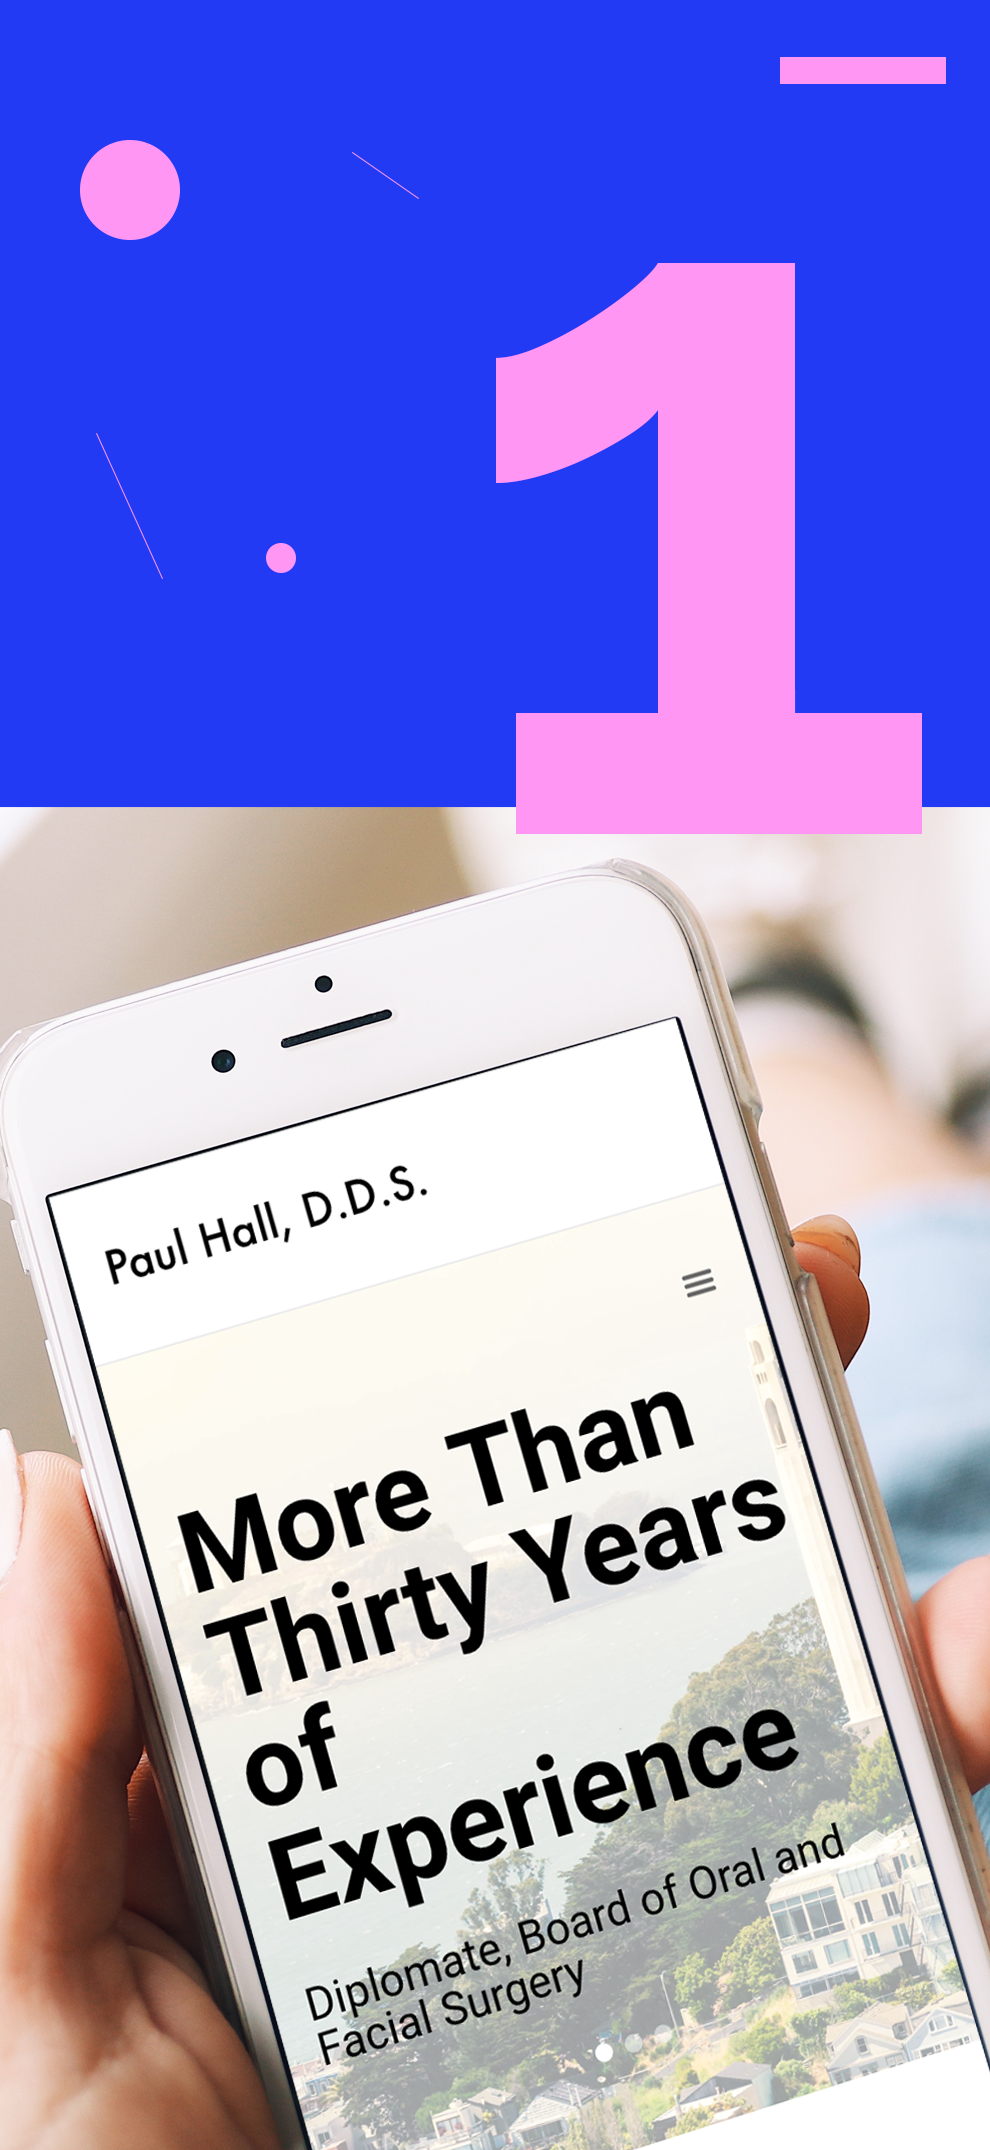
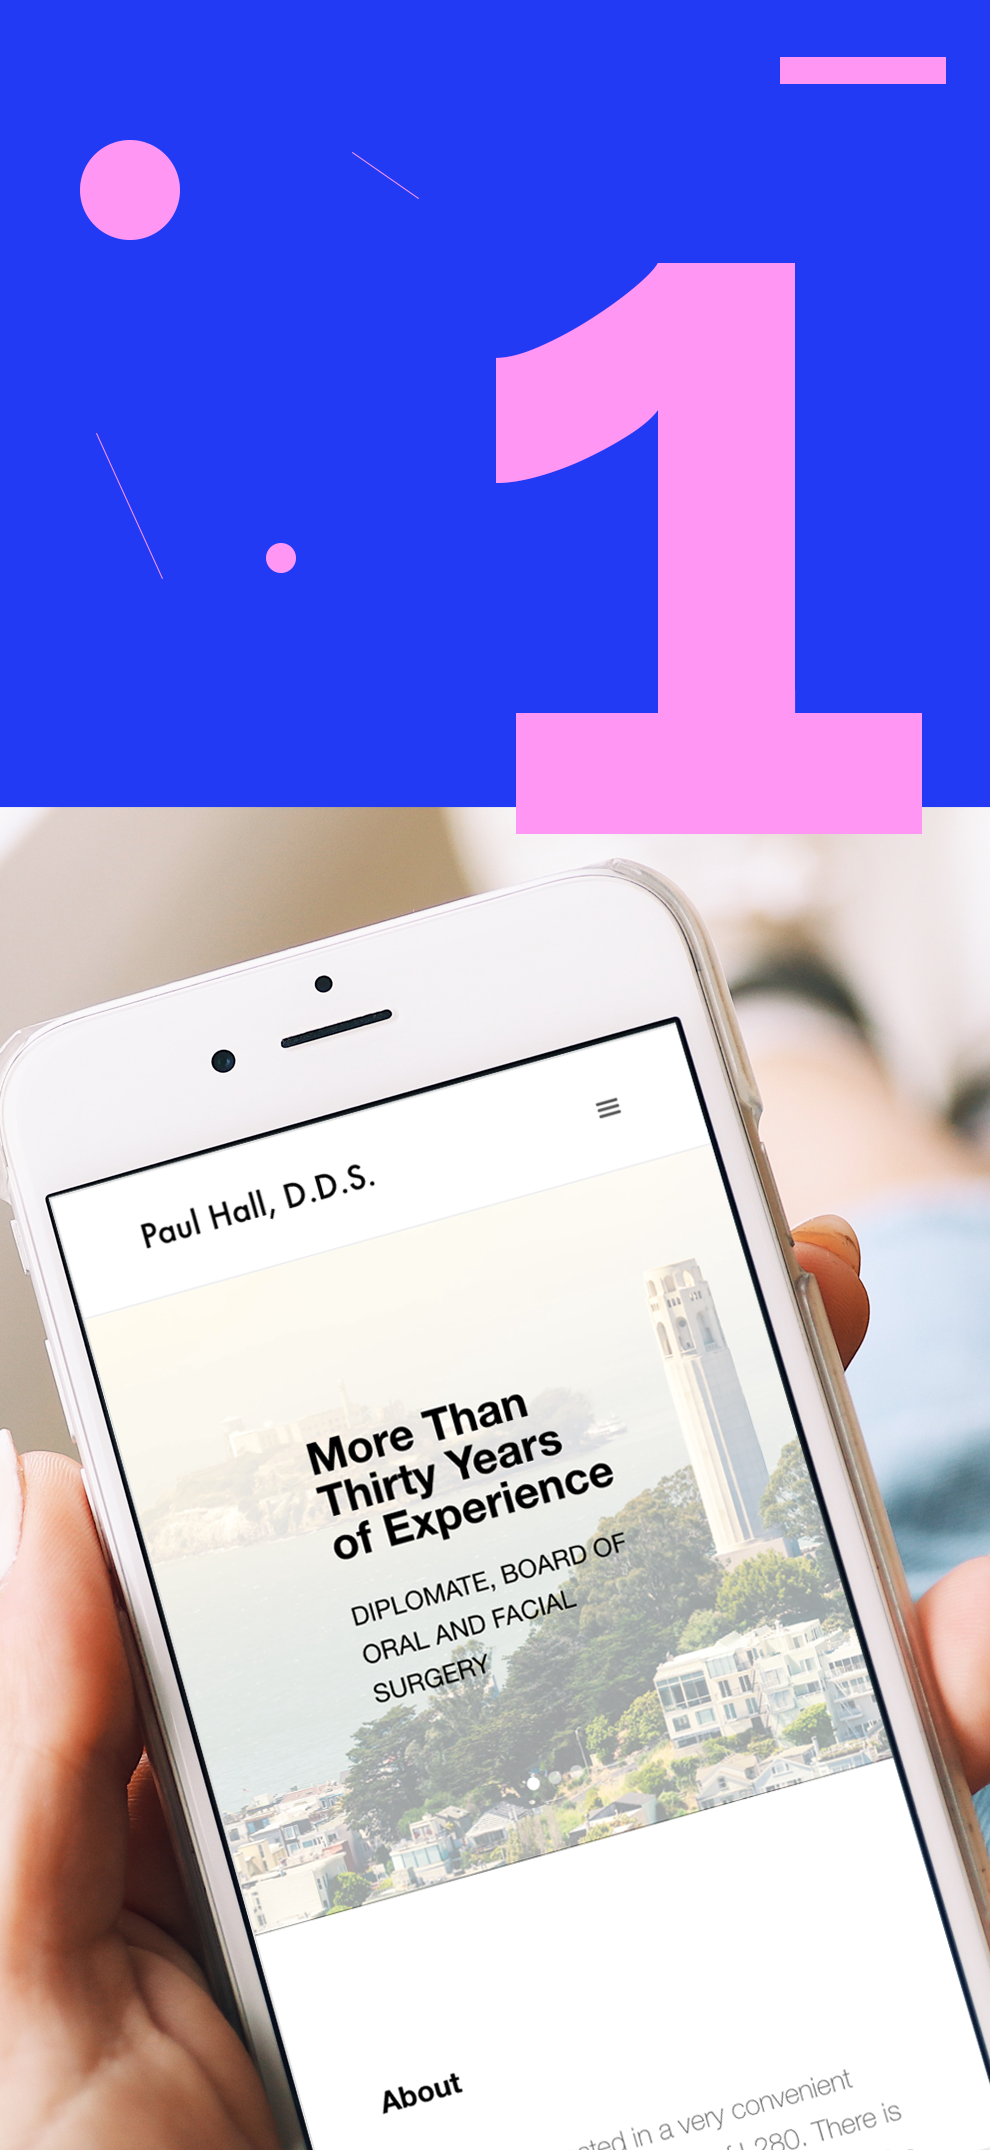
update projects

diff --git a/css/fonts.scss b/css/fonts.scss
@@ -2,7 +2,7 @@
   font-family: 'Open Sans';
   font-style: normal;
   font-weight: 400;
-  src: local('Open Sans'), local('OpenSans'), url(http://fonts.gstatic.com/s/opensans/v10/cJZKeOuBrn4kERxqtaUH3ZBw1xU1rKptJj_0jans920.woff2) format('woff2');
+  src: local('Open Sans'), local('OpenSans'), url(//fonts.gstatic.com/s/opensans/v10/cJZKeOuBrn4kERxqtaUH3ZBw1xU1rKptJj_0jans920.woff2) format('woff2');
   unicode-range: U+0000-00FF, U+0131, U+0152-0153, U+02C6, U+02DA, U+02DC, U+2000-206F, U+2074, U+20AC, U+2212, U+2215, U+E0FF, U+EFFD, U+F000;
 }
 
@@ -10,6 +10,6 @@
   font-family: 'Open Sans';
   font-style: normal;
   font-weight: 300;
-  src: local('Open Sans Light'), local('OpenSans-Light'), url(http://fonts.gstatic.com/s/opensans/v10/DXI1ORHCpsQm3Vp6mXoaTRampu5_7CjHW5spxoeN3Vs.woff2) format('woff2');
+  src: local('Open Sans Light'), local('OpenSans-Light'), url(//fonts.gstatic.com/s/opensans/v10/DXI1ORHCpsQm3Vp6mXoaTRampu5_7CjHW5spxoeN3Vs.woff2) format('woff2');
   unicode-range: U+0000-00FF, U+0131, U+0152-0153, U+02C6, U+02DA, U+02DC, U+2000-206F, U+2074, U+20AC, U+2212, U+2215, U+E0FF, U+EFFD, U+F000;
 }

diff --git a/js/functions.js b/js/functions.js
@@ -12,9 +12,9 @@ var init = function(){
 $(window).scroll(function(){
 
   var wScroll = $(this).scrollTop();
-  // console.log("scrolltop: " + wScroll);
 
   function imageFadeIn(top,bottom,elName,bgColor) {
+    // console.log("scrolltop: " + wScroll);
     if (top <= wScroll && wScroll <= bottom) {
       $('.' + elName + '-fadein').css({
         'background-color' : bgColor,
@@ -41,7 +41,7 @@ $(window).scroll(function(){
   bgcolorFadeIn(introHeight,projectsHeight-300,"intro",peachColor);
   // bgcolorFadeIn(projectsHeight,githubHeight,"projects",'#ffffff');
   // bgcolorFadeIn(linksHeight,contactHeight,"links",'#f58b7a');
-  imageFadeIn(projectsHeight-300,totalHeight,"projects","white");
+  imageFadeIn(projectsHeight-300,totalHeight,"projects-index","white");
   // imageFadeIn(contactHeight,totalHeight,"contact","#edba1c");
 
 });

diff --git a/css/index.sass b/css/index.sass
@@ -9,6 +9,7 @@ body
 //------------------------------
 h1
   weight: 300
+  line-height: 0px
 
 ul
   list-style: none
@@ -29,12 +30,10 @@ ul
 //------------------------------
 .nav-wrapper
   display: flex
-  margin: 5% 5% 0 5%
+  margin: 5%
 
   .nav-logo
     position: relative
-    height: 80px
-    width: 100%
     z-index: 3
     margin: 0
     // background:
@@ -44,7 +43,8 @@ ul
   .nav-push
     margin-left: auto
     z-index: 3
-    font-size: 30px
+    font-size: 15px
+    margin-top: 25px
     a
       text-decoration: none
 
